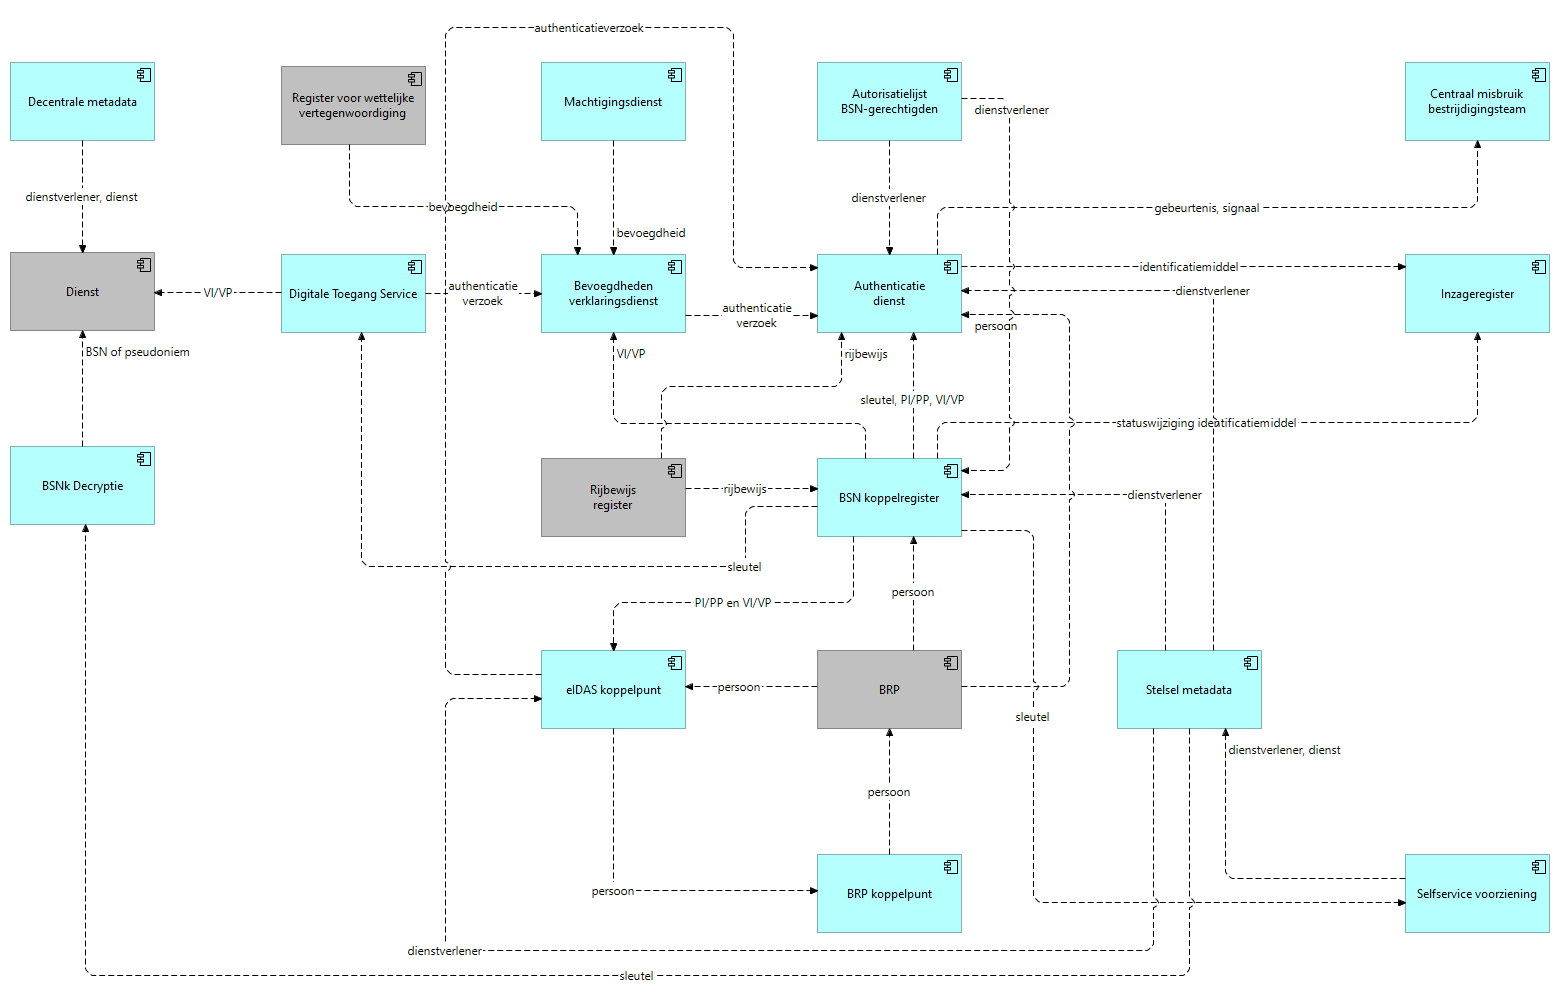
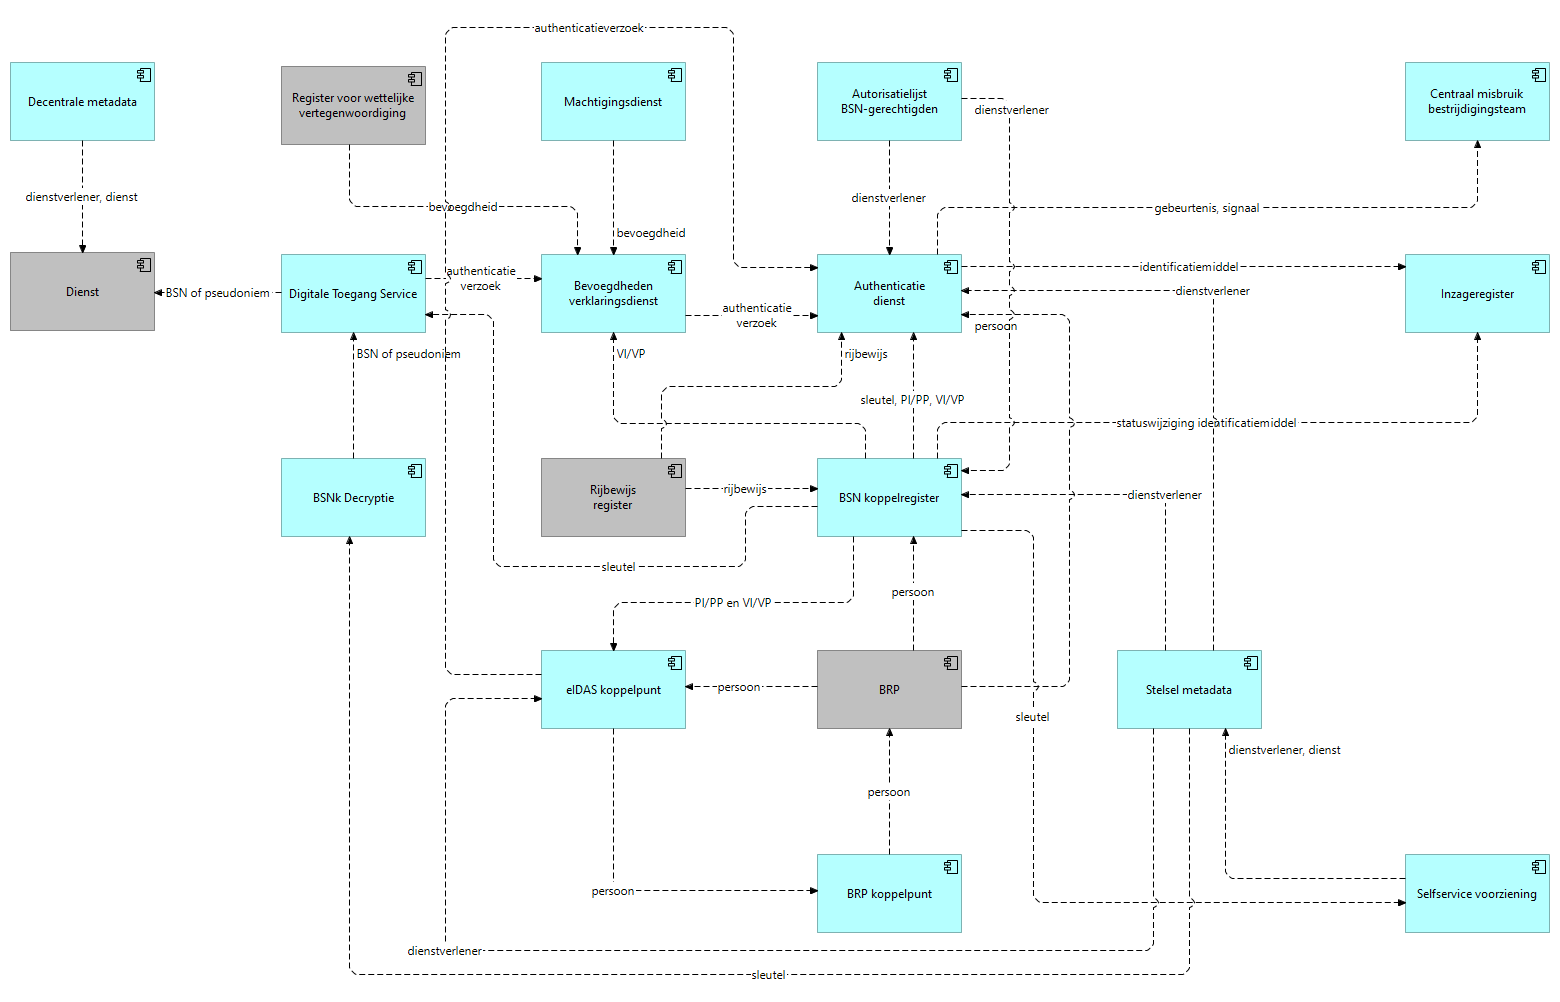
BSNk verplaatst naar DTS

diff --git a/docs/id-3b66eec68cbc4ed8a552deca4e788391/elements/model.html b/docs/id-3b66eec68cbc4ed8a552deca4e788391/elements/model.html
@@ -533,6 +533,8 @@
 										dataRelationships.push({id:"id-962a09edbb6246778e77ca06ac69686d", type:"AssignmentRelationship", specialization:decodeURL(""), name:decodeURL(""), documentation:decodeURL(""), sourceid:"id-baa0a1a458e54436813047815a6a1ac6", targetid:"id-134c38baeaae4aeea789a8abeadf047d"});
 									dataFoldersContent.push({folderid:"id-0009729c733045e3a29ca6275d464d8a", contentid:"id-9f97bffd85da49858eef493eb81e9d2f", contenttype:"AssignmentRelationship"});
 										dataRelationships.push({id:"id-9f97bffd85da49858eef493eb81e9d2f", type:"AssignmentRelationship", specialization:decodeURL(""), name:decodeURL(""), documentation:decodeURL(""), sourceid:"id-baa0a1a458e54436813047815a6a1ac6", targetid:"id-7cf563ac433c44bb9f9d73ebc545da97"});
+									dataFoldersContent.push({folderid:"id-0009729c733045e3a29ca6275d464d8a", contentid:"id-a41d9e25258a49dabde865b06b3a438f", contenttype:"AssignmentRelationship"});
+										dataRelationships.push({id:"id-a41d9e25258a49dabde865b06b3a438f", type:"AssignmentRelationship", specialization:decodeURL(""), name:decodeURL(""), documentation:decodeURL(""), sourceid:"id-b666322db6e64dd98a41a38e9aeb9119", targetid:"id-7cf563ac433c44bb9f9d73ebc545da97"});
 									dataFoldersContent.push({folderid:"id-0009729c733045e3a29ca6275d464d8a", contentid:"id-a99008fd17f742699aec55b32d2fd9e5", contenttype:"AssignmentRelationship"});
 										dataRelationships.push({id:"id-a99008fd17f742699aec55b32d2fd9e5", type:"AssignmentRelationship", specialization:decodeURL(""), name:decodeURL(""), documentation:decodeURL(""), sourceid:"id-93a1371d1b704ef9b0d88e433f3ab319", targetid:"id-2cf6a1a354874b06ac1be3af7ffebaa5"});
 									dataFoldersContent.push({folderid:"id-0009729c733045e3a29ca6275d464d8a", contentid:"id-aae85c0a32d14c11b13aebb02a7d90a1", contenttype:"AssignmentRelationship"});
@@ -810,9 +812,9 @@
 									dataFoldersContent.push({folderid:"id-0009729c733045e3a29ca6275d464d8a", contentid:"id-c0a68efd0514457baaa43780818f5cc7", contenttype:"FlowRelationship"});
 										dataRelationships.push({id:"id-c0a68efd0514457baaa43780818f5cc7", type:"FlowRelationship", specialization:decodeURL(""), name:decodeURL("persoon"), documentation:decodeURL(""), sourceid:"id-3ef065ec83394ff3973661f17f989af1", targetid:"id-8663ac9316864f948c39dec794669f48"});
 									dataFoldersContent.push({folderid:"id-0009729c733045e3a29ca6275d464d8a", contentid:"id-c2c0dfa460ab4f89bea13df7bccb0316", contenttype:"FlowRelationship"});
-										dataRelationships.push({id:"id-c2c0dfa460ab4f89bea13df7bccb0316", type:"FlowRelationship", specialization:decodeURL(""), name:decodeURL("BSN+of+pseudoniem"), documentation:decodeURL(""), sourceid:"id-f98dedea8a334a88a76dca91842aa3cb", targetid:"id-b666322db6e64dd98a41a38e9aeb9119"});
+										dataRelationships.push({id:"id-c2c0dfa460ab4f89bea13df7bccb0316", type:"FlowRelationship", specialization:decodeURL(""), name:decodeURL("BSN+of+pseudoniem"), documentation:decodeURL(""), sourceid:"id-f98dedea8a334a88a76dca91842aa3cb", targetid:"id-d904439ff4b44281a4092a5d386ad71f"});
 									dataFoldersContent.push({folderid:"id-0009729c733045e3a29ca6275d464d8a", contentid:"id-c38dcec4426341108efe9eeed2720fef", contenttype:"FlowRelationship"});
-										dataRelationships.push({id:"id-c38dcec4426341108efe9eeed2720fef", type:"FlowRelationship", specialization:decodeURL(""), name:decodeURL("VI%2FVP"), documentation:decodeURL(""), sourceid:"id-d904439ff4b44281a4092a5d386ad71f", targetid:"id-b666322db6e64dd98a41a38e9aeb9119"});
+										dataRelationships.push({id:"id-c38dcec4426341108efe9eeed2720fef", type:"FlowRelationship", specialization:decodeURL(""), name:decodeURL("BSN+of+pseudoniem"), documentation:decodeURL(""), sourceid:"id-d904439ff4b44281a4092a5d386ad71f", targetid:"id-b666322db6e64dd98a41a38e9aeb9119"});
 									dataFoldersContent.push({folderid:"id-0009729c733045e3a29ca6275d464d8a", contentid:"id-ca686aaef00443e58f86f81ec5b11ff0", contenttype:"FlowRelationship"});
 										dataRelationships.push({id:"id-ca686aaef00443e58f86f81ec5b11ff0", type:"FlowRelationship", specialization:decodeURL(""), name:decodeURL("persoon"), documentation:decodeURL(""), sourceid:"id-757143a6ddc94ebeb8ef30374340814f", targetid:"id-3ef065ec83394ff3973661f17f989af1"});
 									dataFoldersContent.push({folderid:"id-0009729c733045e3a29ca6275d464d8a", contentid:"id-ccf7056cb12f4a7fa69f5646b35b202c", contenttype:"FlowRelationship"});
@@ -861,8 +863,6 @@
 										dataRelationships.push({id:"id-b94a1a019cf14659b54f18aed31da869", type:"SpecializationRelationship", specialization:decodeURL(""), name:decodeURL(""), documentation:decodeURL(""), sourceid:"id-b1f831bda0454c3ab6095b279b1c0df8", targetid:"id-d766d65c0ea14ecc9e01f99938d0b61b"});
 									dataFoldersContent.push({folderid:"id-0009729c733045e3a29ca6275d464d8a", contentid:"id-e757b928f60e417ca5b502d23c2c57eb", contenttype:"SpecializationRelationship"});
 										dataRelationships.push({id:"id-e757b928f60e417ca5b502d23c2c57eb", type:"SpecializationRelationship", specialization:decodeURL(""), name:decodeURL(""), documentation:decodeURL(""), sourceid:"id-19372d5882b8419692ad1594ab96eb7f", targetid:"id-906f182647604ffc90107fdb1c8d46de"});
-									dataFoldersContent.push({folderid:"id-0009729c733045e3a29ca6275d464d8a", contentid:"id-a41d9e25258a49dabde865b06b3a438f", contenttype:"AssignmentRelationship"});
-										dataRelationships.push({id:"id-a41d9e25258a49dabde865b06b3a438f", type:"AssignmentRelationship", specialization:decodeURL(""), name:decodeURL(""), documentation:decodeURL(""), sourceid:"id-b666322db6e64dd98a41a38e9aeb9119", targetid:"id-7cf563ac433c44bb9f9d73ebc545da97"});
 
 								dataFoldersContent.push({folderid:"id-3b66eec68cbc4ed8a552deca4e788391", contentid:"id-69c46f923b47425d8baae04e076ba7b0", contenttype:"Folder"});
 								dataFolders.push({id:"id-69c46f923b47425d8baae04e076ba7b0", type:"Folder", name:decodeURL("Views"), documentation:decodeURL("")});

diff --git a/docs/id-3b66eec68cbc4ed8a552deca4e788391/views/id-e8af2ce565394e1f81411ab32da2a44e.html b/docs/id-3b66eec68cbc4ed8a552deca4e788391/views/id-e8af2ce565394e1f81411ab32da2a44e.html
@@ -40,7 +40,7 @@
 				  		<area shape="rect" coords="817,854,962,933" href="../elements/id-757143a6ddc94ebeb8ef30374340814f.html"  target="element">
 				  		<area shape="rect" coords="10,62,155,141" href="../elements/id-83ce33f5583c4e8fb80435c61b4b37a3.html"  target="element">
 				  		<area shape="rect" coords="10,252,155,331" href="../elements/id-b666322db6e64dd98a41a38e9aeb9119.html"  target="element">
-				  		<area shape="rect" coords="10,446,155,525" href="../elements/id-f98dedea8a334a88a76dca91842aa3cb.html"  target="element">
+				  		<area shape="rect" coords="281,458,426,537" href="../elements/id-f98dedea8a334a88a76dca91842aa3cb.html"  target="element">
 				  		<area shape="rect" coords="1405,254,1550,333" href="../elements/id-aac980f42cf24d6ebfabf9ef08be885e.html"  target="element">
 				  		<area shape="rect" coords="541,254,686,333" href="../elements/id-bdb8aa12d54b4e7893025bfa27603dcf.html"  target="element">
 				  		<area shape="rect" coords="541,458,686,537" href="../elements/id-887ff59c939646d19d105df2ba28a5b6.html"  target="element">
@@ -218,7 +218,7 @@
 								</thead>
 								<tbody>
 																	<tr>
-																		<td> <a href="../elements/id-c38dcec4426341108efe9eeed2720fef.html" target="element"> VI/VP </a> </td>
+																		<td> <a href="../elements/id-c38dcec4426341108efe9eeed2720fef.html" target="element"> BSN of pseudoniem </a> </td>
 																		<td> <a href="../elements/id-c38dcec4426341108efe9eeed2720fef.html" target="element" class="i18n-elementtype-FlowRelationship">
 																		</a> </td>
 																		<td> <a href="../elements/id-d904439ff4b44281a4092a5d386ad71f.html" target="element"> Digitale Toegang Service </a> </td>
@@ -399,7 +399,7 @@
 																		<td> <a href="../elements/id-c2c0dfa460ab4f89bea13df7bccb0316.html" target="element" class="i18n-elementtype-FlowRelationship">
 																		</a> </td>
 																		<td> <a href="../elements/id-f98dedea8a334a88a76dca91842aa3cb.html" target="element"> BSNk Decryptie </a> </td>
-																		<td> <a href="../elements/id-b666322db6e64dd98a41a38e9aeb9119.html" target="element"> Dienst </a> </td>
+																		<td> <a href="../elements/id-d904439ff4b44281a4092a5d386ad71f.html" target="element"> Digitale Toegang Service </a> </td>
 																	</tr>
 
 																	<tr>

diff --git a/docs/index.html b/docs/index.html
@@ -547,6 +547,10 @@
 															<span class="i18n-elementtype-AssignmentRelationship"></span>
 														(Dienst - Controleren autorisatie voor dienst) 
 													</a></li>
+													<li class="tree-element "><a href="id-3b66eec68cbc4ed8a552deca4e788391/elements/id-a41d9e25258a49dabde865b06b3a438f.html" target="element">
+															<span class="i18n-elementtype-AssignmentRelationship"></span>
+														(Dienst - Controleren autorisatie voor dienst) 
+													</a></li>
 													<li class="tree-element "><a href="id-3b66eec68cbc4ed8a552deca4e788391/elements/id-a99008fd17f742699aec55b32d2fd9e5.html" target="element">
 															<span class="i18n-elementtype-AssignmentRelationship"></span>
 														(eHerkenning middelenverstrekker - Cre&#235;ren pseudoniem) 
@@ -1101,10 +1105,10 @@
 													</a></li>
 													<li class="tree-element "><a href="id-3b66eec68cbc4ed8a552deca4e788391/elements/id-c2c0dfa460ab4f89bea13df7bccb0316.html" target="element">
 															BSN of pseudoniem
-														(BSNk Decryptie - Dienst) 
+														(BSNk Decryptie - Digitale Toegang Service) 
 													</a></li>
 													<li class="tree-element "><a href="id-3b66eec68cbc4ed8a552deca4e788391/elements/id-c38dcec4426341108efe9eeed2720fef.html" target="element">
-															VI/VP
+															BSN of pseudoniem
 														(Digitale Toegang Service - Dienst) 
 													</a></li>
 													<li class="tree-element "><a href="id-3b66eec68cbc4ed8a552deca4e788391/elements/id-ca686aaef00443e58f86f81ec5b11ff0.html" target="element">
@@ -1202,10 +1206,6 @@
 													<li class="tree-element "><a href="id-3b66eec68cbc4ed8a552deca4e788391/elements/id-e757b928f60e417ca5b502d23c2c57eb.html" target="element">
 															<span class="i18n-elementtype-SpecializationRelationship"></span>
 														(Verticale machtiging - Machtiging) 
-													</a></li>
-													<li class="tree-element "><a href="id-3b66eec68cbc4ed8a552deca4e788391/elements/id-a41d9e25258a49dabde865b06b3a438f.html" target="element">
-															<span class="i18n-elementtype-AssignmentRelationship"></span>
-														(Dienst - Controleren autorisatie voor dienst) 
 													</a></li>
 
 									</ul>

diff --git a/docs/id-3b66eec68cbc4ed8a552deca4e788391/elements/id-c38dcec4426341108efe9eeed2720fef.html b/docs/id-3b66eec68cbc4ed8a552deca4e788391/elements/id-c38dcec4426341108efe9eeed2720fef.html
@@ -2,7 +2,7 @@
 <html class="frame" lang="en">
 <head>
 	<meta http-equiv="Content-Type" content="text/html;charset=utf-8">
-	<title>VI/VP</title>
+	<title>BSN of pseudoniem</title>
 
 	<!-- JQUERY -->
 	<script type="text/javascript" src="../../lib/jquery/jquery.min.js"></script>
@@ -21,7 +21,7 @@
 
 		<div class="panel-heading root-panel-heading">
             <!-- Name -->
-               <b>VI/VP</b>
+               <b>BSN of pseudoniem</b>
 
             <!-- If a View with Viewpoint -->
 			   (<span class="i18n-elementtype-FlowRelationship"></span>)

diff --git a/docs/id-3b66eec68cbc4ed8a552deca4e788391/elements/id-c2c0dfa460ab4f89bea13df7bccb0316.html b/docs/id-3b66eec68cbc4ed8a552deca4e788391/elements/id-c2c0dfa460ab4f89bea13df7bccb0316.html
@@ -52,8 +52,8 @@
 								</a>
 							<br>
 							<b class="i18n-relation-target"></b>
-								<a href="../elements/id-b666322db6e64dd98a41a38e9aeb9119.html" target="element">
-									Dienst
+								<a href="../elements/id-d904439ff4b44281a4092a5d386ad71f.html" target="element">
+									Digitale Toegang Service
 								</a>
 							<br>
 							<br>
